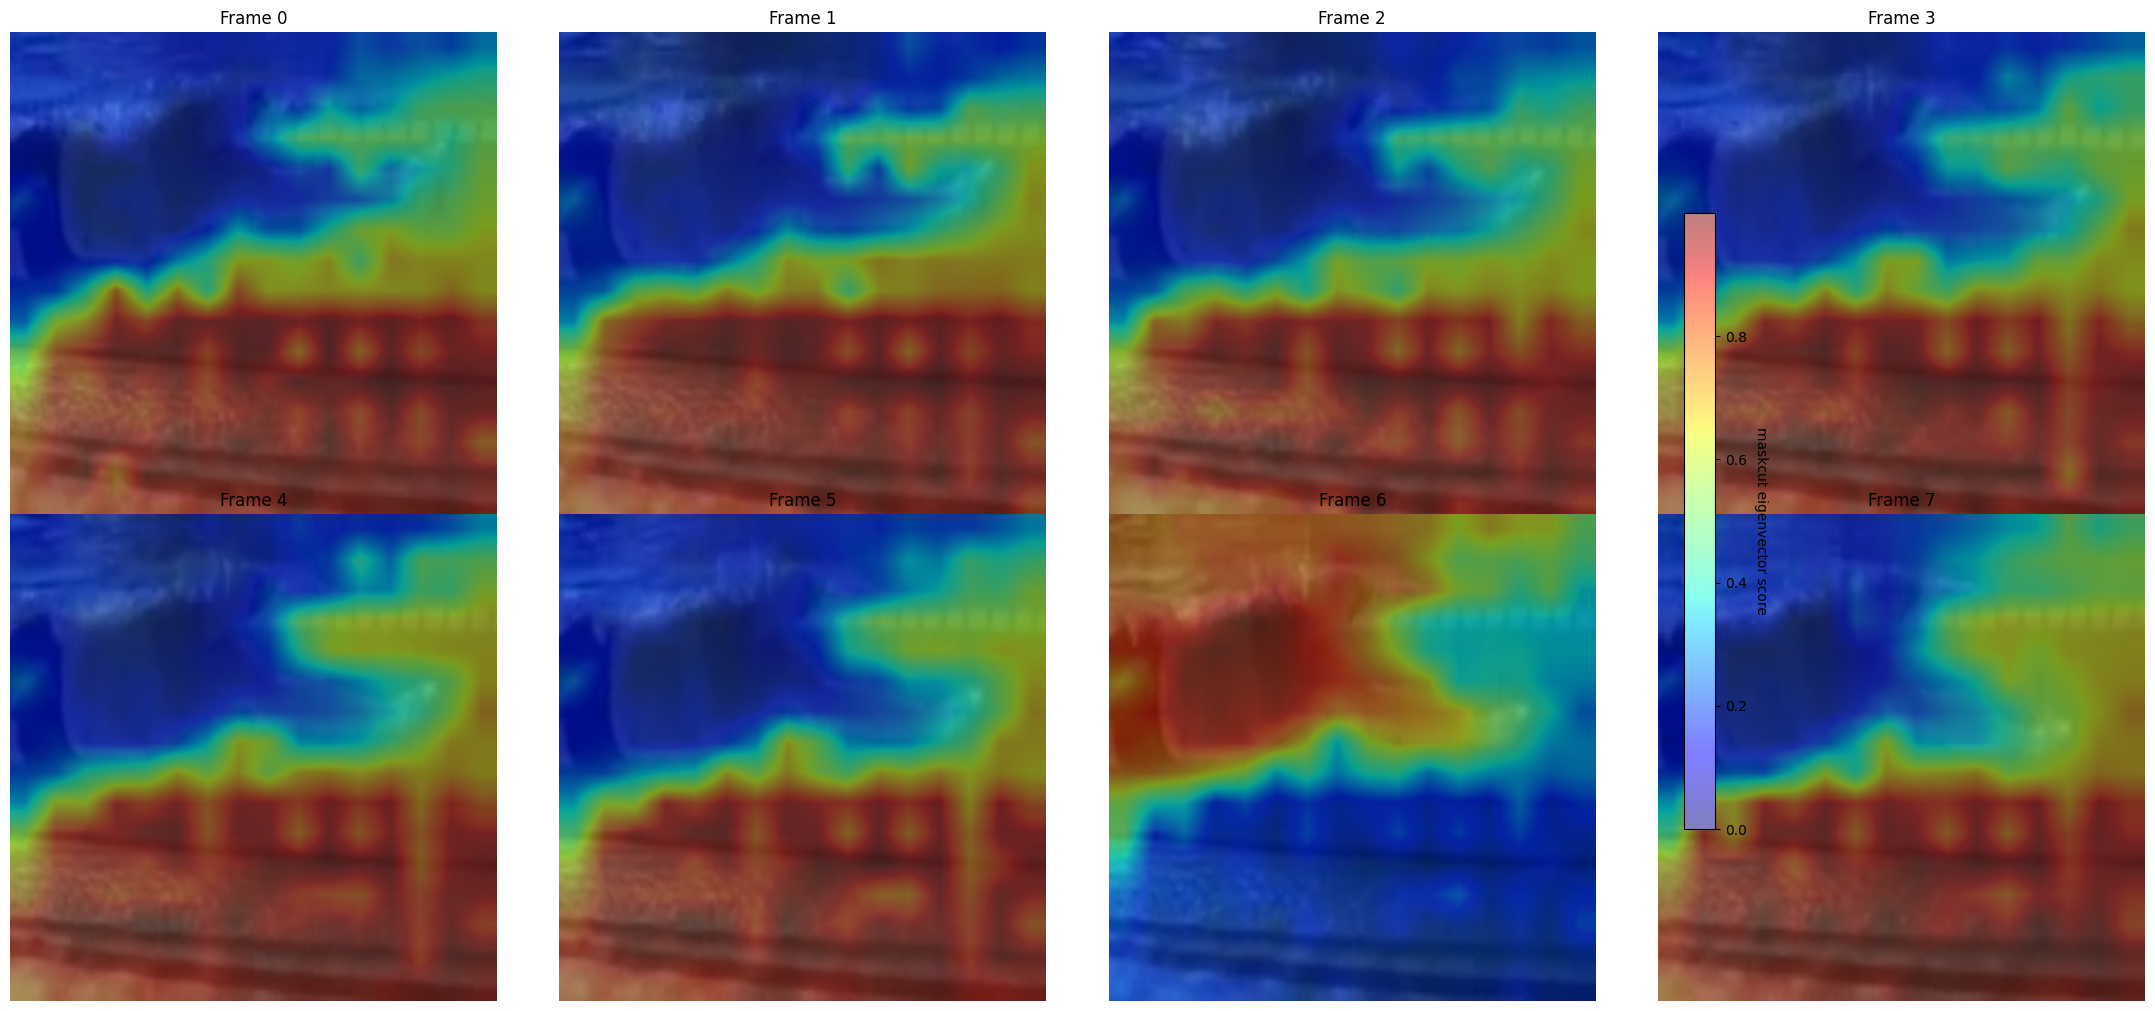
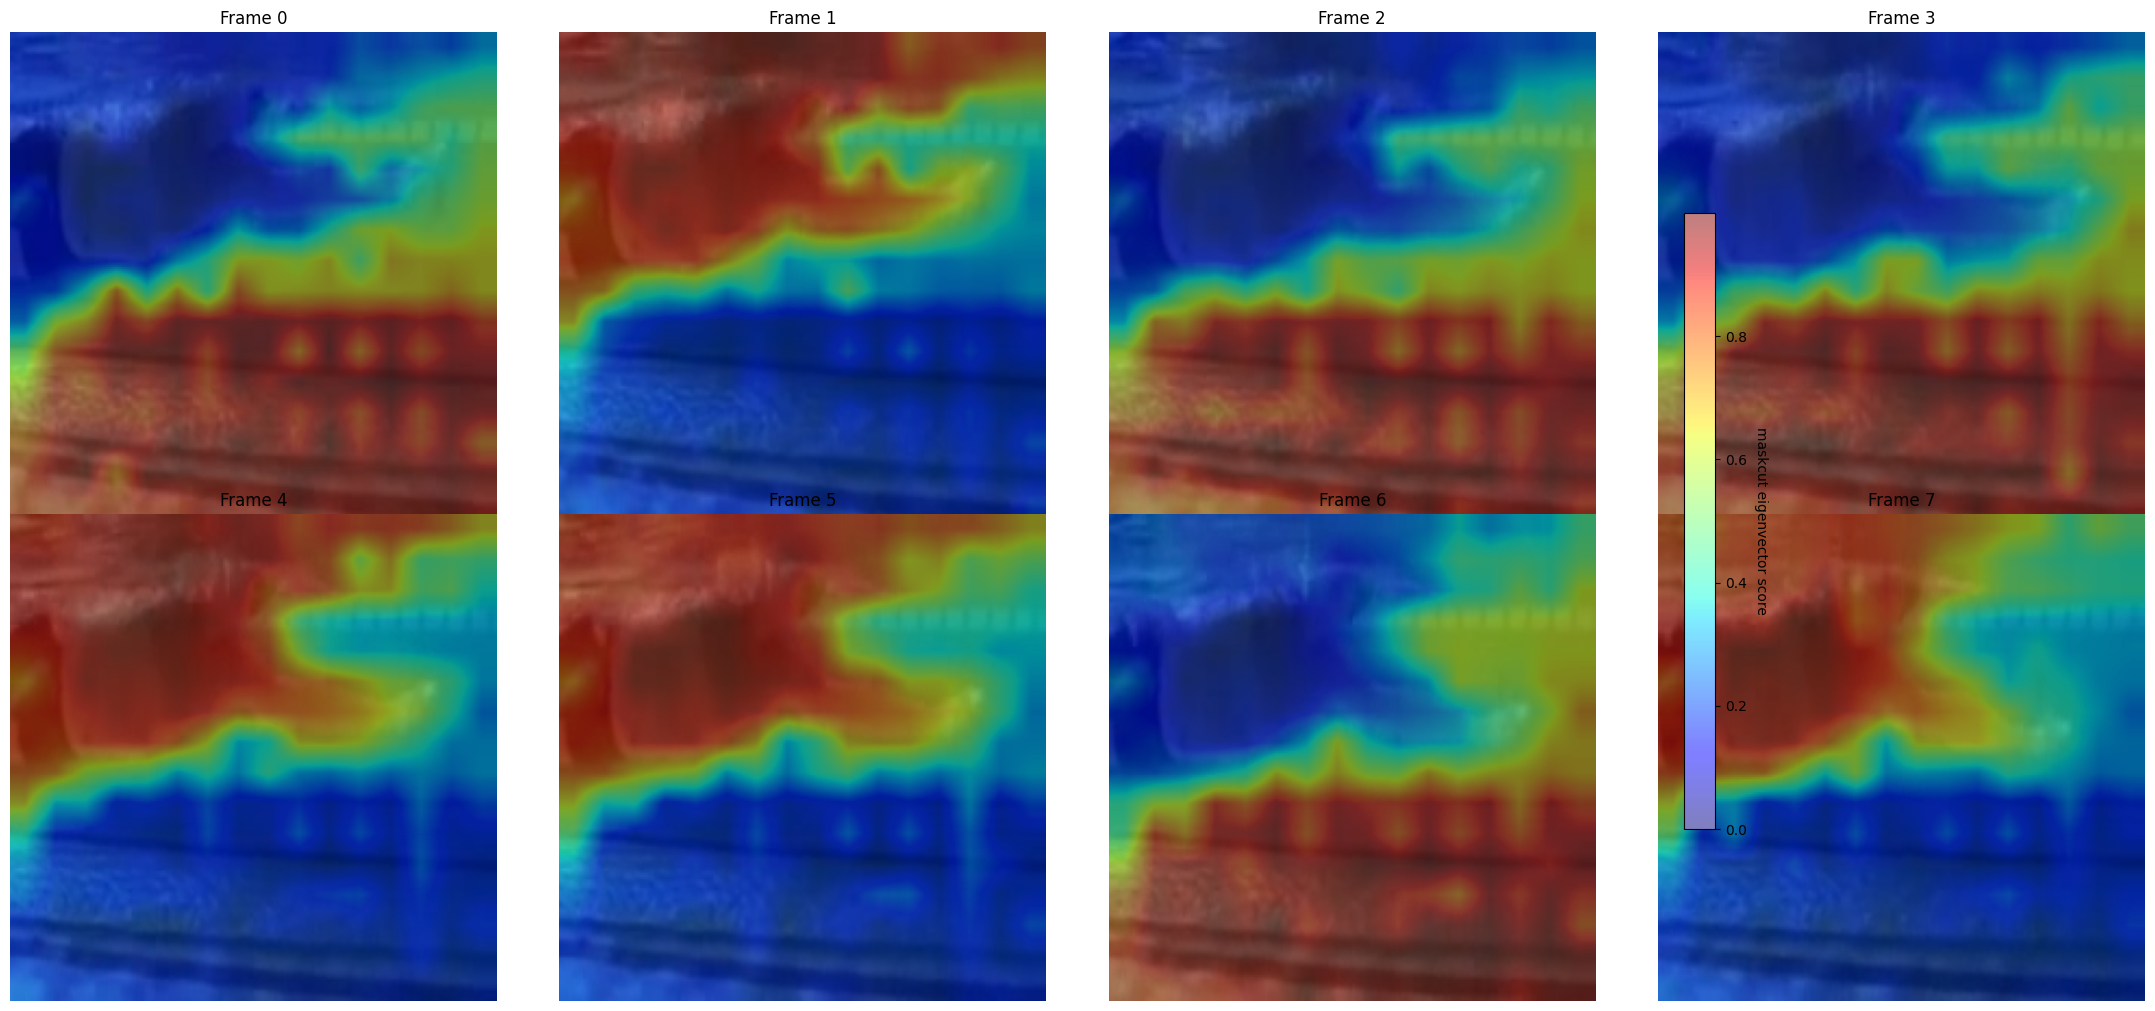
done

diff --git a/DiffTrack/point_sampling/finetune_dino_test.py b/DiffTrack/point_sampling/finetune_dino_test.py
@@ -5,10 +5,11 @@ import numpy as np
 import os
 from model_finetune import DINOv2_LoRA
 import matplotlib.pyplot as plt
+# from sklearn.cluster import KMeans
 
 checkpoint_path = "test_models/lora_dino_epoch_1.pth" 
-# video_path = "UCF_Rep/val/v_ShavingBeard_g23_c06.mp4" #pick a specific video to test
-video_path = "vids_mp4/swim.mp4" #pick a specific video to test 
+# video_path = "UCF_Rep/val/v_CuttingInKitchen_g24_c01.mp4" #pick a specific video to test
+video_path = "vids_mp4/74xHYgPwErQ_4.0_8.72.mp4" #pick a specific video to test 
 # video_path = "countix/-dxBq0WzYRU_35.42309_37.71705.mp4"
 device = torch.device("cuda" if torch.cuda.is_available() else "cpu")
 
@@ -25,7 +26,7 @@ def visualize():
     norm_mean = torch.tensor([0.485, 0.456, 0.406]).view(3, 1, 1).to(device)
     norm_std = torch.tensor([0.229, 0.224, 0.225]).view(3, 1, 1).to(device)
 
-    for _ in range(8): #just look at the first 8 frames
+    for _ in range(1): #just look at the first frame
         ret, frame = cap.read()
         if not ret: break
         frame_rgb = cv2.cvtColor(frame, cv2.COLOR_BGR2RGB)
@@ -95,30 +96,28 @@ def visualize():
     #     # Rename back to sim_map so your plotting code works without changes
     #     sim_map = pc1
         
-    #4. plotting
-    fig, axes = plt.subplots(2, 4, figsize=(22, 10))
-    axes = axes.flatten()
-    
-    im = None 
-    for i in range(min(8, len(raw_frames))):
-        #upscale 16x16 similarity map back to 224x224 for viewing
-        heatmap = F.interpolate(
-            sim_map[0, i].view(1, 1, 16, 16), 
-            size=(224, 224), 
-            mode='bilinear'
-        ).squeeze().cpu().numpy()
-        
-        #normalize heatmap for visualization
-        heatmap = (heatmap - heatmap.min()) / (heatmap.max() - heatmap.min() + 1e-8)
-        
-        #overlay logic
-        axes[i].imshow(raw_frames[i])
-        im = axes[i].imshow(heatmap, cmap='jet', alpha=0.5) #alpha 0.5 let's us see the actor underneath
-        axes[i].set_title(f"Frame {i}")
-        axes[i].axis('off')
+    #4. plotting (first frame only)
+    fig, axes = plt.subplots(1, 2, figsize=(12, 5))
 
-    cbar = fig.colorbar(im, ax=axes.ravel().tolist(), shrink=0.8, pad=0.02)
-    cbar.set_label('similarity to actor vector', rotation=270, labelpad=15)
+    heatmap = F.interpolate(
+        sim_map[0, 0].view(1, 1, 16, 16),
+        size=(224, 224),
+        mode='bilinear'
+    ).squeeze().cpu().numpy()
+
+    heatmap = (heatmap - heatmap.min()) / (heatmap.max() - heatmap.min() + 1e-8)
+
+    axes[0].imshow(raw_frames[0])
+    axes[0].set_title("Frame 0 (Original)")
+    axes[0].axis('off')
+
+    axes[1].imshow(raw_frames[0])
+    im = axes[1].imshow(heatmap, cmap='jet', alpha=0.5)
+    axes[1].set_title("Frame 0 (Mask Overlay)")
+    axes[1].axis('off')
+
+    # cbar = fig.colorbar(im, ax=axes.ravel().tolist(), shrink=0.8, pad=0.02)
+    # cbar.set_label('similarity to actor vector', rotation=270, labelpad=15)
 
     plt.tight_layout()
     os.makedirs("point_sampling/finetuned_test/", exist_ok=True)
@@ -129,5 +128,70 @@ def visualize():
     plt.savefig(save_name, bbox_inches='tight')
     print(f"saved visualization to {save_name}")
 
+
+# def visualize_knn():
+#     # 1. Standard init and load
+#     model = DINOv2_LoRA().to(device)
+#     state_dict = torch.load(checkpoint_path, map_location=device, weights_only=True)
+#     model.load_state_dict(state_dict)
+#     model.eval()
+
+#     cap = cv2.VideoCapture(video_path)
+#     ret, frame = cap.read()
+#     if not ret: return
+#     frame_rgb = cv2.cvtColor(frame, cv2.COLOR_BGR2RGB)
+#     raw_frame = cv2.resize(frame_rgb, (224, 224))
+    
+#     norm_mean = torch.tensor([0.485, 0.456, 0.406]).view(3, 1, 1).to(device)
+#     norm_std = torch.tensor([0.229, 0.224, 0.225]).view(3, 1, 1).to(device)
+#     t_frame = (torch.from_numpy(raw_frame).permute(2, 0, 1).float().to(device) / 255.0 - norm_mean) / norm_std
+#     cap.release()
+
+#     # 2. Run Inference
+#     with torch.no_grad():
+#         # Input shape [1, 1, 3, 224, 224]
+#         features = model(t_frame.unsqueeze(0).unsqueeze(0)) 
+#         # features shape: [1, 1, 768, 16, 16]
+        
+#         # Flatten patches into a list of vectors: [256, 768]
+#         feat_flat = features[0, 0].permute(1, 2, 0).reshape(-1, 768).cpu().numpy()
+
+#     # 3. K-Means Clustering
+#     # We look for 2 clusters: Background and Foreground
+#     n_clusters = 2
+#     kmeans = KMeans(n_clusters=n_clusters, n_init=10, random_state=42)
+#     cluster_labels = kmeans.fit_predict(feat_flat) # Result is [256] labels (0 or 1)
+    
+#     # Reshape labels back to 16x16 grid
+#     cluster_map = cluster_labels.reshape(16, 16).astype(np.float32)
+    
+#     # We check the top-left corner label. If it's 1, it means cluster 1 is background.
+#     # We want Background to be 0 and Actor to be 1.
+#     if cluster_map[0, 0] == 1:
+#         cluster_map = 1 - cluster_map
+
+#     # 4. Upscale for visualization
+#     cluster_map_tensor = torch.from_numpy(cluster_map).view(1, 1, 16, 16)
+#     upscaled_mask = F.interpolate(cluster_map_tensor, size=(224, 224), mode='nearest').squeeze().numpy()
+
+#     # 5. Plotting
+#     fig, axes = plt.subplots(1, 2, figsize=(12, 5))
+#     axes[0].imshow(raw_frame)
+#     axes[0].set_title("Original Frame")
+#     axes[0].axis('off')
+
+#     axes[1].imshow(raw_frame)
+#     # Using 'jet' map, cluster 0 will be blue, cluster 1 will be red
+#     axes[1].imshow(upscaled_mask, cmap='jet', alpha=0.5)
+#     axes[1].set_title("K-Means Semantic Segments")
+#     axes[1].axis('off')
+
+#     plt.tight_layout()
+#     video_name = os.path.splitext(os.path.basename(video_path))[0]
+#     save_name = f"point_sampling/finetuned_test/{video_name}_kmeans_seg.png"
+#     plt.savefig(save_name, bbox_inches='tight')
+#     print(f"Saved K-Means segmentation to {save_name}")
+
 if __name__ == "__main__":
-    visualize()
+    # visualize()
+    visualize_knn()

diff --git a/DiffTrack/point_sampling/finetune_dino_maskcut.py b/DiffTrack/point_sampling/finetune_dino_maskcut.py
@@ -8,7 +8,7 @@ import matplotlib.pyplot as plt
 
 checkpoint_path = "test_models/lora_dino_epoch_0.pth" 
 # video_path = "UCF_Rep/val/v_PlayingViolin_g22_c02.mp4" #pick a specific video to test
-video_path = "vids_mp4/swim_3.mp4" #pick a specific video to test
+video_path = "vids_mp4/74xHYgPwErQ_4.0_8.72.mp4" #pick a specific video to test
 device = torch.device("cuda" if torch.cuda.is_available() else "cpu")
 
 def get_maskcut(frame_features):
@@ -44,13 +44,13 @@ def get_maskcut(frame_features):
     #reshape back to spatial grid
     mask = eigenvector.view(h, w)
     
-    #4. auto-inversion logic
-    #we assume the 4 corners of the frame are background (gym floor, pool, room walls)
-    #if the eigenvector assigned positive values to the corners, it means the background is 'hot'.
-    #so we flip it, guaranteeing the actor becomes the positive peak!
-    corners_mean = (mask[0, 0] + mask[0, -1] + mask[-1, 0] + mask[-1, -1]) / 4.0
-    if corners_mean > 0:
-        mask = -mask
+    # #4. auto-inversion logic
+    # #we assume the 4 corners of the frame are background (gym floor, pool, room walls)
+    # #if the eigenvector assigned positive values to the corners, it means the background is 'hot'.
+    # #so we flip it, guaranteeing the actor becomes the positive peak!
+    # corners_mean = (mask[0, 0] + mask[0, -1] + mask[-1, 0] + mask[-1, -1]) / 4.0
+    # if corners_mean > 0:
+    #     mask = -mask
         
     return mask
 
